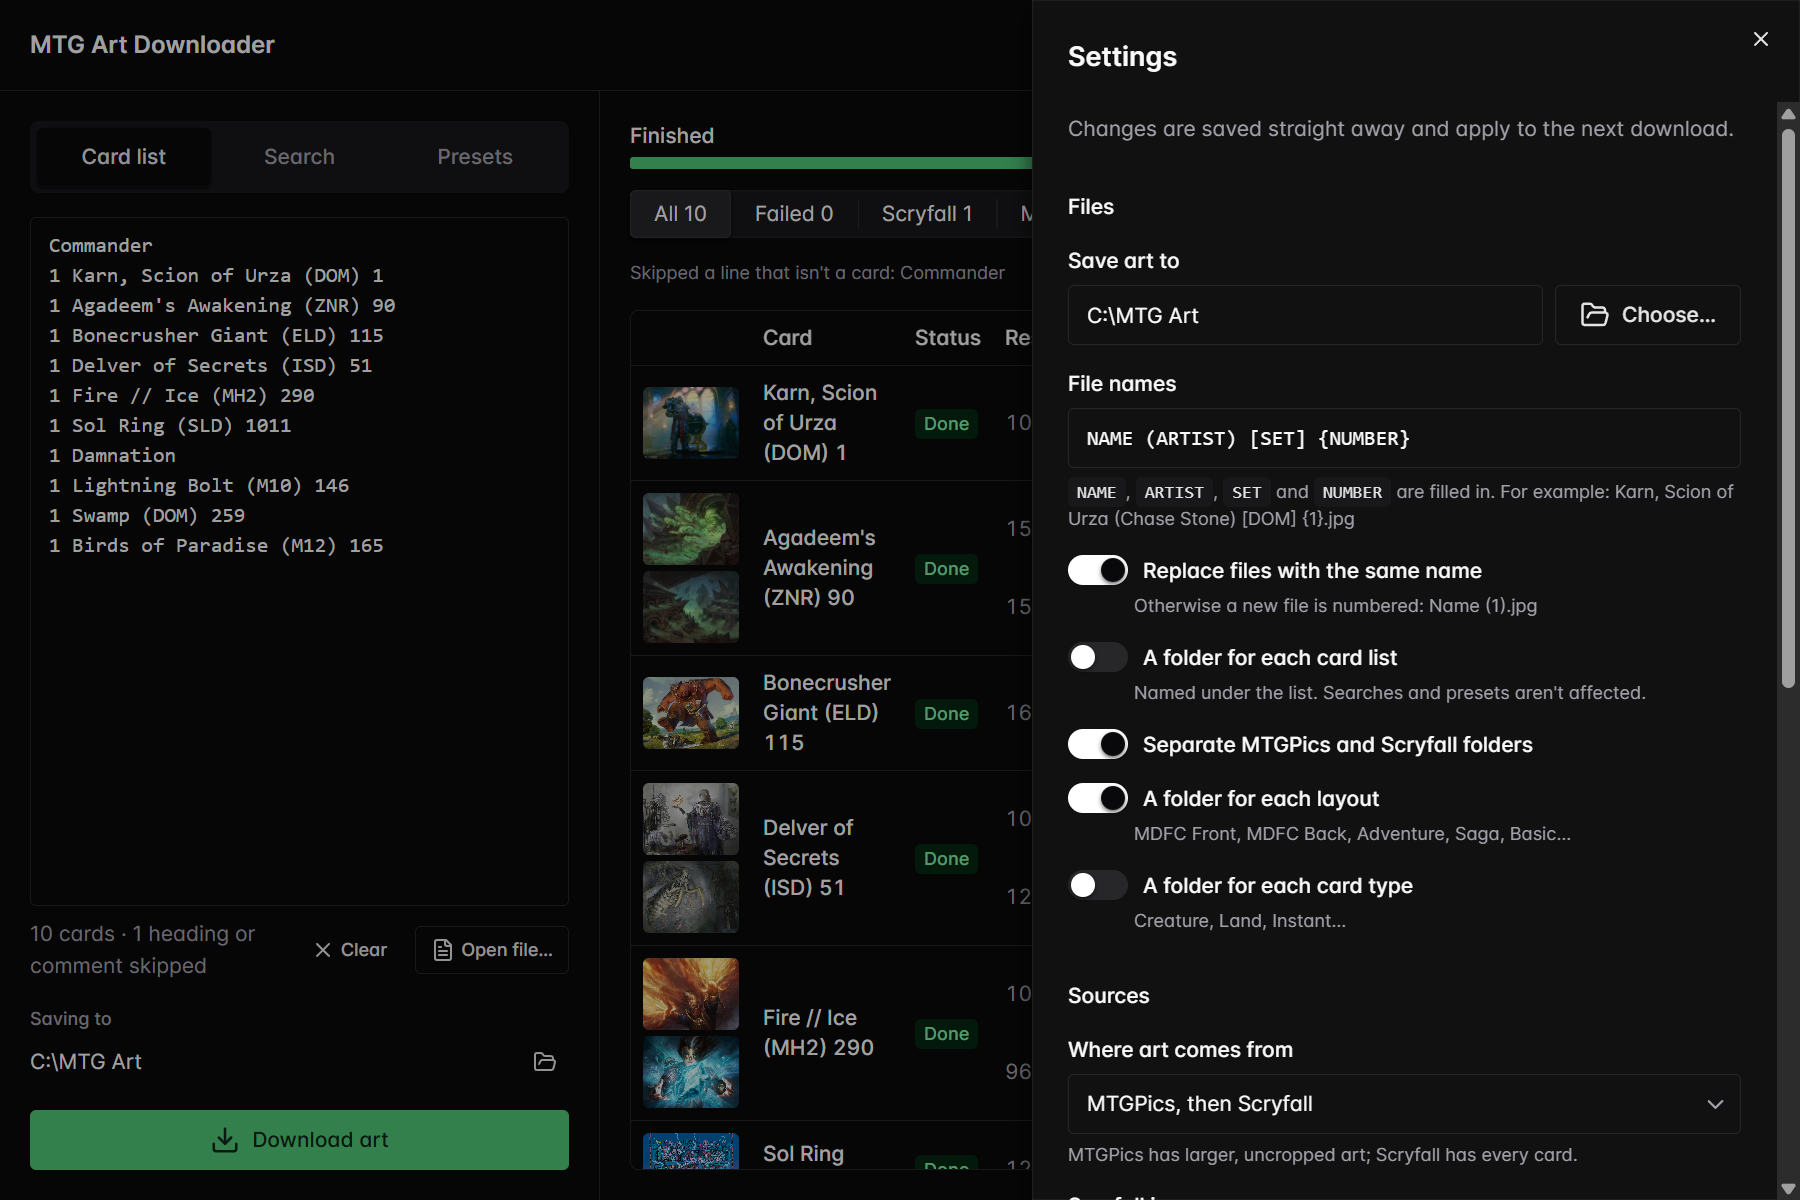
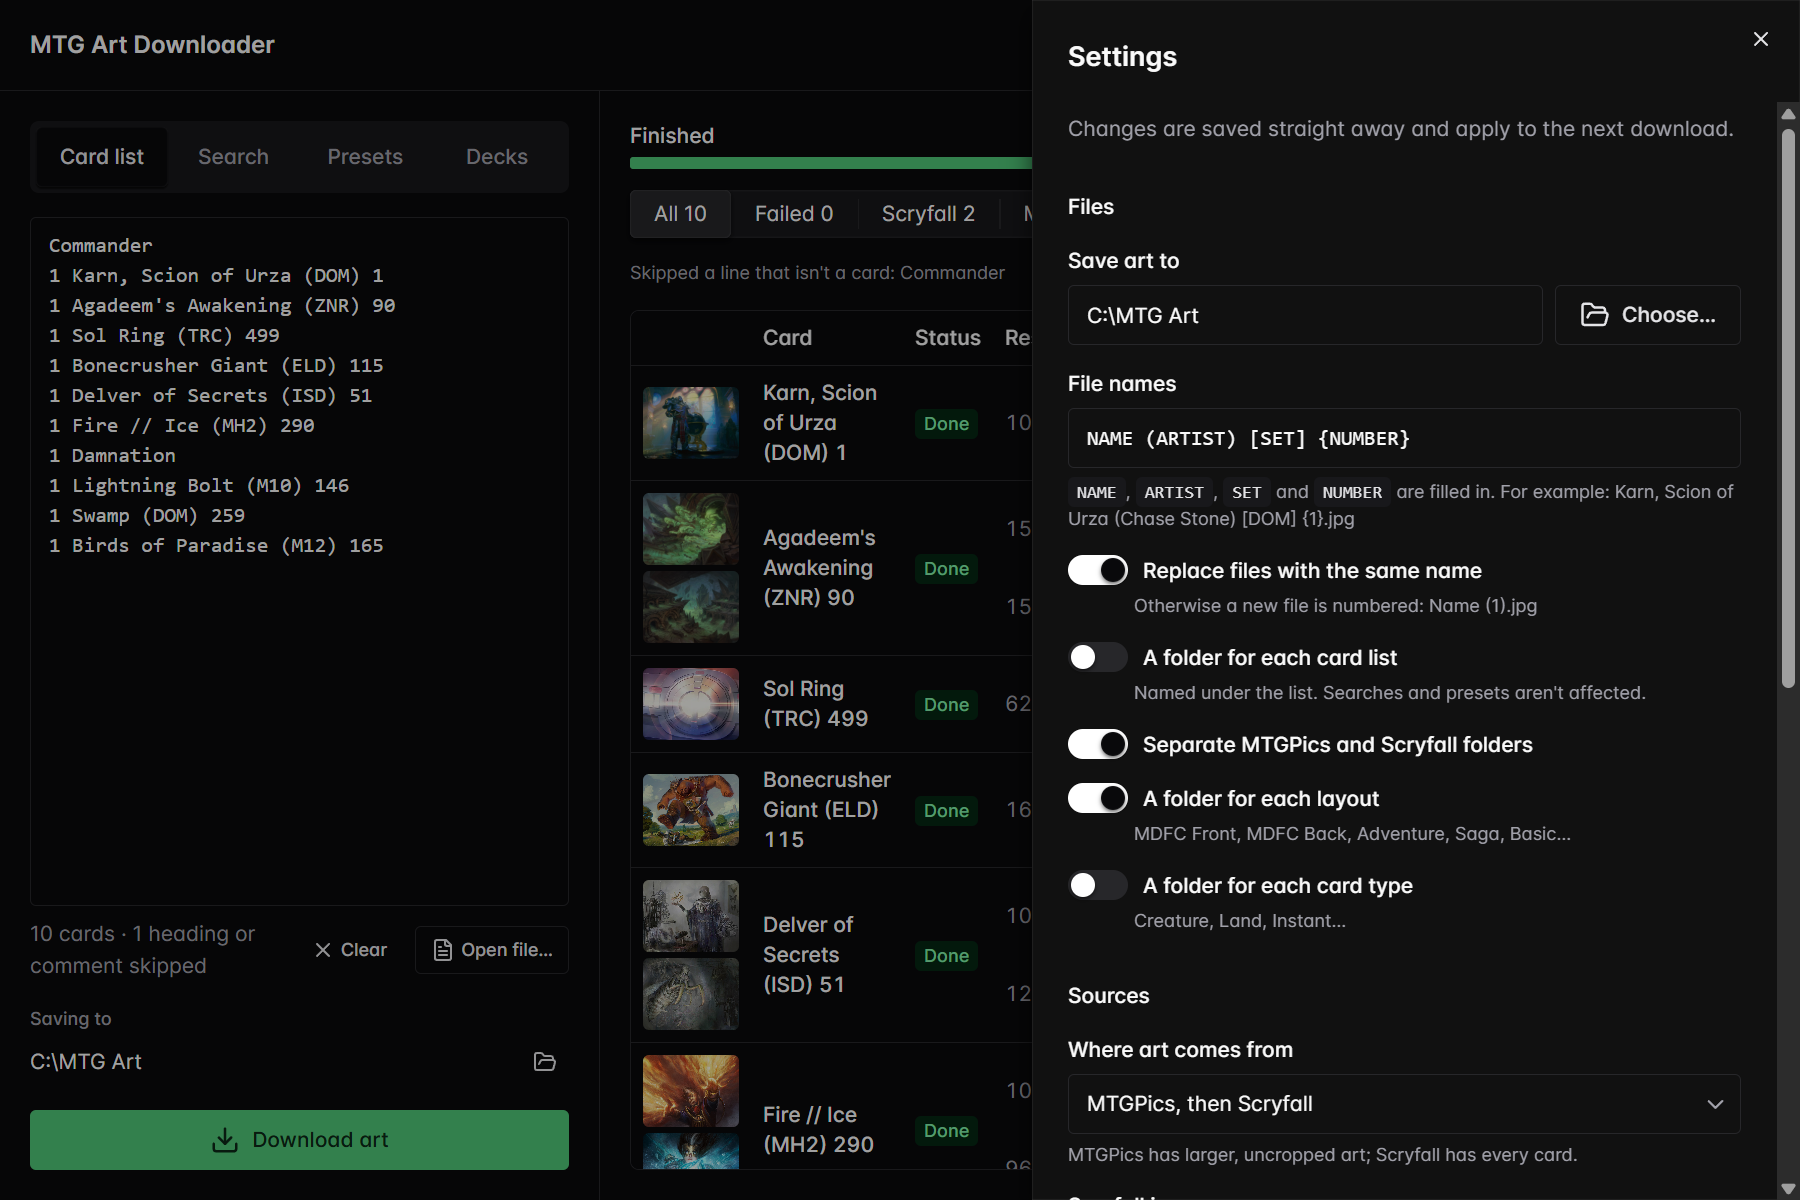
docs: retake the readme's screenshots and show the decks, finding a larger copy and the sources menu
- the results and settings shots retaken with four tabs, a Scryfall row showing the larger-copy buttons
- new shots of the Decks tab, a Google Lens button's tooltip, and the right-click sources menu
- found copies are checked again on every download, and asked for as their page asked
- the finder's commands on macOS are in the Find Art menu
- the app icon's source is app-icon.svg; the skills and their lock file

diff --git a/README.md b/README.md
@@ -54,6 +54,11 @@ where TCGplayer has one. Search them in Scryfall's words: `set:eoc`, `type:comma
 before any of them to leave out what it matches. Downloading a deck saves the exact printings in
 the box, its commander first.
 
+<picture>
+  <source media="(prefers-color-scheme: dark)" srcset="docs/screenshots/decks-dark.png" />
+  <img alt="The Decks tab searching set:eoc, with World Shaper picked and its 93 cards downloaded into a folder of its own" src="docs/screenshots/decks-light.png" />
+</picture>
+
 Files are named from a template, `NAME (ARTIST) [SET] {NUMBER}` by default, and by default go in
 `mtgpics/` and `scryfall/` folders (and `web/` for copies you find), with a folder for each layout:
 `MDFC Front` and `MDFC Back`, `Adventure`, `Saga`, `Basic`. A double-faced card is saved as one
@@ -75,19 +80,25 @@ largest copy you can, open it, and choose **Save image**. The app checks it's th
 larger than Scryfall's, then saves it in place of Scryfall's file, in a `web/` folder, marked
 **Found** in the results with a link to the page it came from. If it doesn't look like a larger copy
 of the art (a card scan, a smaller copy, or another painting), the app asks before saving it. Every
-later download of that art gets your copy.
+later download of that art gets your copy, checked again each time in case what's at that address
+has changed.
+
+<img alt="Sol Ring's art saved from Scryfall, with its six buttons to look for a larger copy, and the Google Lens button's tooltip" src="docs/screenshots/find-copy-dark.png" />
 
 Replaced an image by mistake? Right-click its card in the results to save its art again from another
 place it's known to be: MTGPics (if an earlier download found it there), Scryfall, or any copy you
 found, listed with its site and size. The app keeps only where each one is, and downloads it again
 when you go back to it. Later downloads of the card use the one you chose last.
 
+<img alt="Karn's row right-clicked: use the art from MTGPics, 1024 × 768 and saved now, or from Scryfall, 633 × 468, or show it in its folder" src="docs/screenshots/sources-dark.png" />
+
 Some sites, Instagram among them, cover their images so they can't be saved. On those, open the post
-and choose **Find the art on this page** from the window's menu: the app downloads the images the
-page has and shows them in its main window, each with its size and whether it looks like the art,
-and saves the one you choose. It reads the page only when you ask, and only its images. You can
-sign in to a site in that window; **Sign out of sites** forgets it. Whatever you save or ask about, a note in the window's corner says what came of it: saved, too
-small, a card scan, or not the art.
+and choose **Find the art on this page** from the window's menu (on macOS, the **Find Art** menu in
+the menu bar): the app downloads the images the page has and shows them in its main window, each
+with its size and whether it looks like the art, and saves the one you choose. It reads the page
+only when you ask, and only its images. You can sign in to a site in that window; **Sign out of
+sites** forgets it. Whatever you save or ask about, a note in the window's corner says what came of
+it: saved, too small, a card scan, or not the art.
 
 ### Settings
 
@@ -162,8 +173,12 @@ it has been added.
 An image you save in that window is checked against Scryfall's art crop: the crop has to be found
 inside it, at any size, and it has to be at least 10% wider than the crop. A match that covers too
 little of the image, where the picture stops at the match's edges as at a card's frame, is a card
-scan. Where you saved it from is logged by artwork, so every printing of the art is saved from
-there, before MTGPics is asked; if the image is gone from there, it's forgotten. The app opens the
+scan. A split card's half is checked against only its own part of the crop, which shows both halves.
+Where you saved it from is logged by artwork, so every printing of the art is saved from there,
+before MTGPics is asked. Each time, it's asked for as the page you found it on asked for it (some
+sites, Pixiv among them, refuse an image to anyone else) and checked again; if it's gone, or isn't
+that art any more, it's forgotten. One you saved though the check doubted it stays yours while it's
+the size it was. The app opens the
 page and listens for what you save; it doesn't search or click for you, and reads a page only when
 you choose **Find the art on this page**, and then only its images. A website is the one the
 artist's MTGPics page links, kept for a month. Pixiv's artist search needs an account, so its button
@@ -225,8 +240,10 @@ project on its first run; the domain is attached to that project in Cloudflare's
 [`AGENTS.md`](AGENTS.md), `.agents/skills/` and `.agents/mcp.json` are the sources of truth for
 coding agents. `pnpm install` copies them to where Claude Code, Cursor and VS Code look for them
 (`CLAUDE.md`, `.claude/skills/`, `.mcp.json`, `.cursor/mcp.json`, `.vscode/mcp.json`); those copies
-are gitignored. The MCP servers are Chakra UI's docs and each Storybook's, which VS Code starts when
-the folder opens.
+are gitignored, and the Git hooks copy them again after every checkout and merge. The MCP servers
+are Chakra UI's docs and each Storybook's, which VS Code starts when the folder opens. The skills
+come from `npx skills add` and are pinned in `skills-lock.json`: Chakra UI's three, a code review
+guide, and the Hugging Face CLI's.
 
 ### Releasing
 
@@ -245,8 +262,8 @@ the private key whose public half is in `tauri.conf.json`, and `TAURI_SIGNING_PR
 (empty if the key has none). Losing the private key means installed apps can't update to a build
 signed with a new one, so keep a copy somewhere safe.
 
-The app icon is a placeholder. To replace it, run `pnpm --filter desktop tauri icon path/to/icon.png` with a square
-PNG or SVG of at least 1024 pixels.
+The app icon's source is `apps/desktop/src-tauri/app-icon.svg`. After changing it, run
+`pnpm --filter desktop tauri icon src-tauri/app-icon.svg` to make every size each platform needs.
 
 ## License
 
